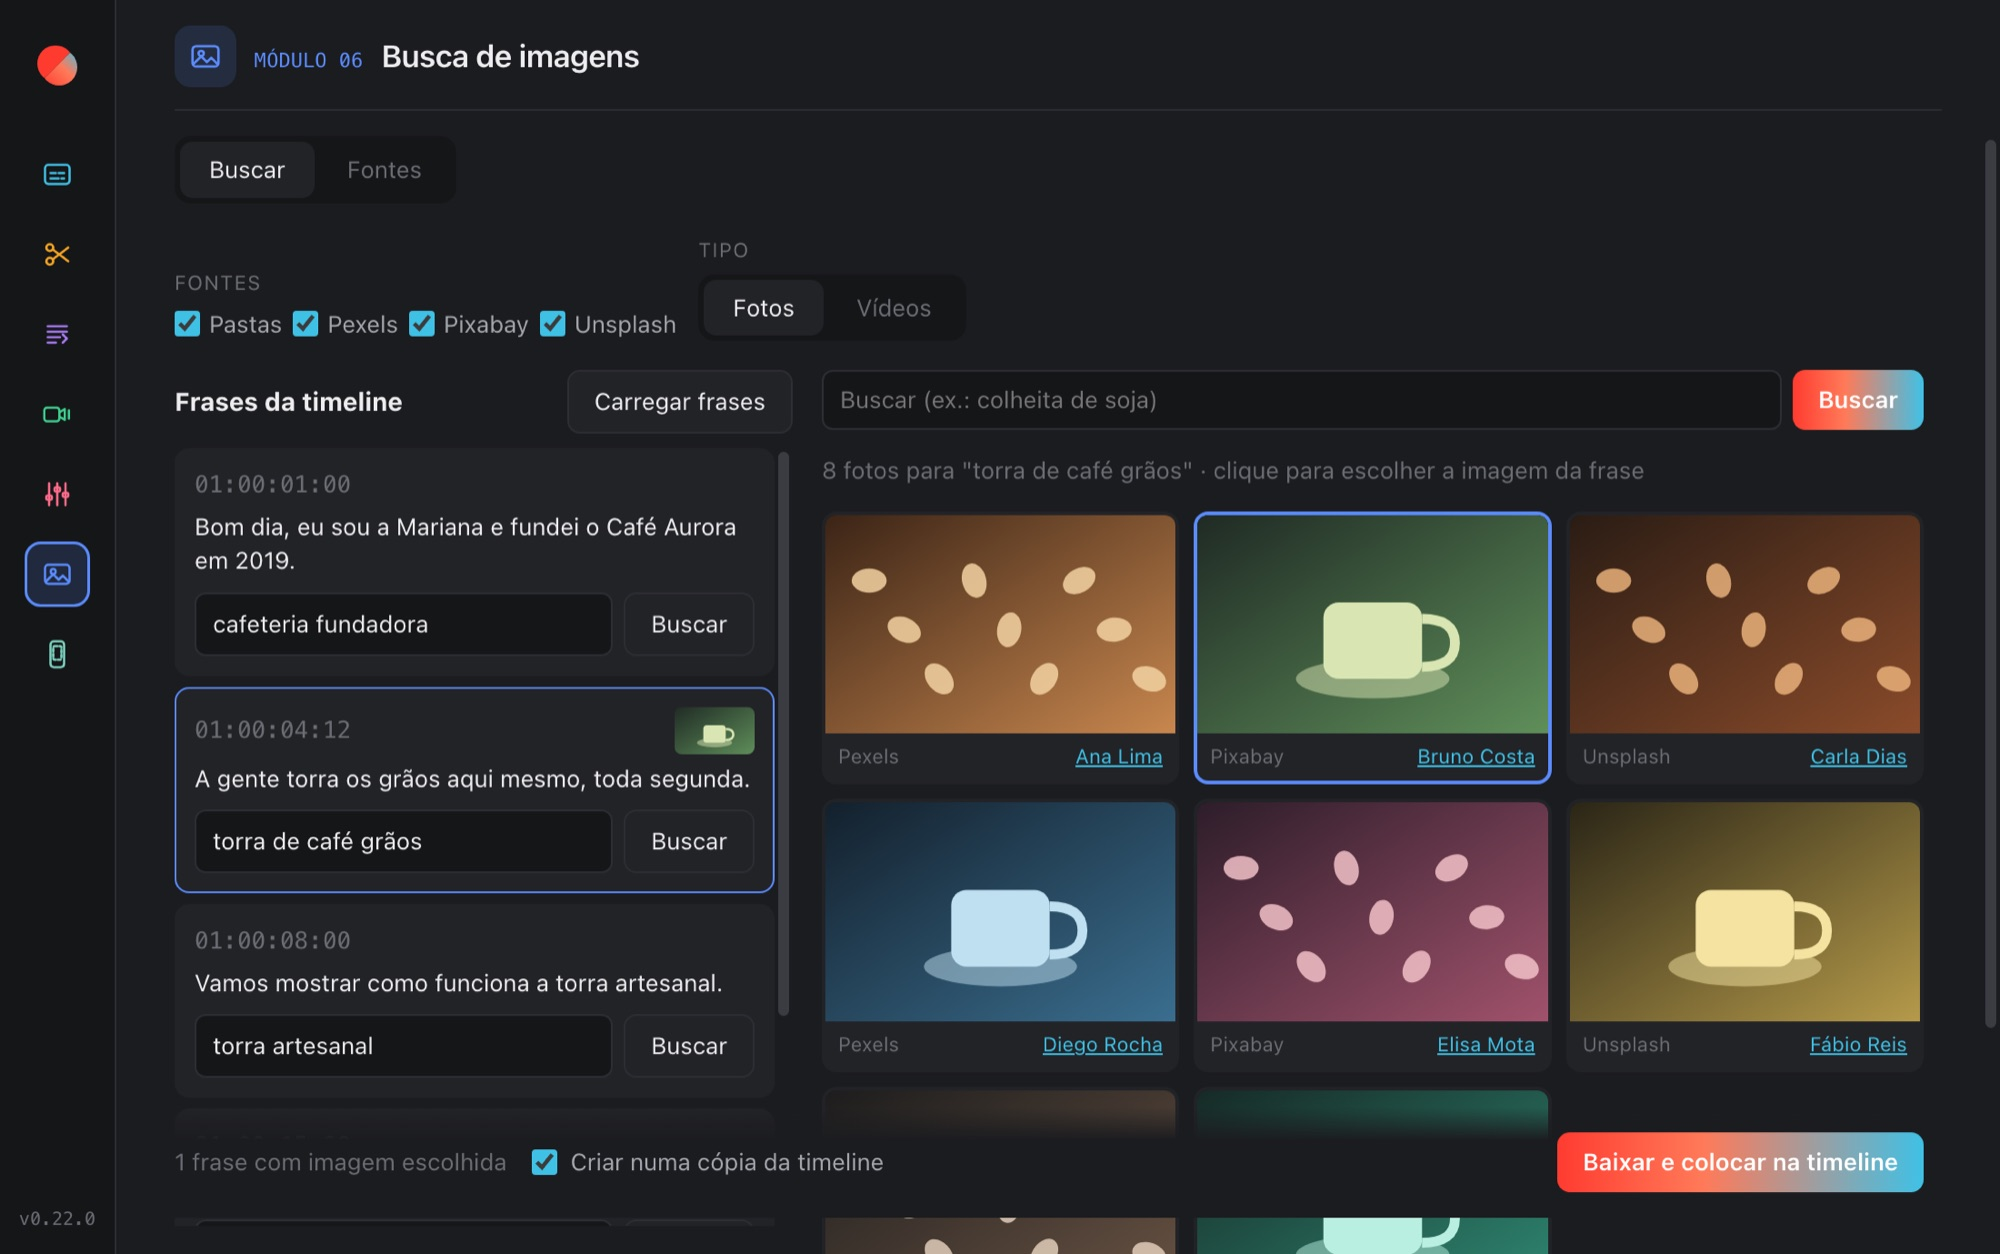
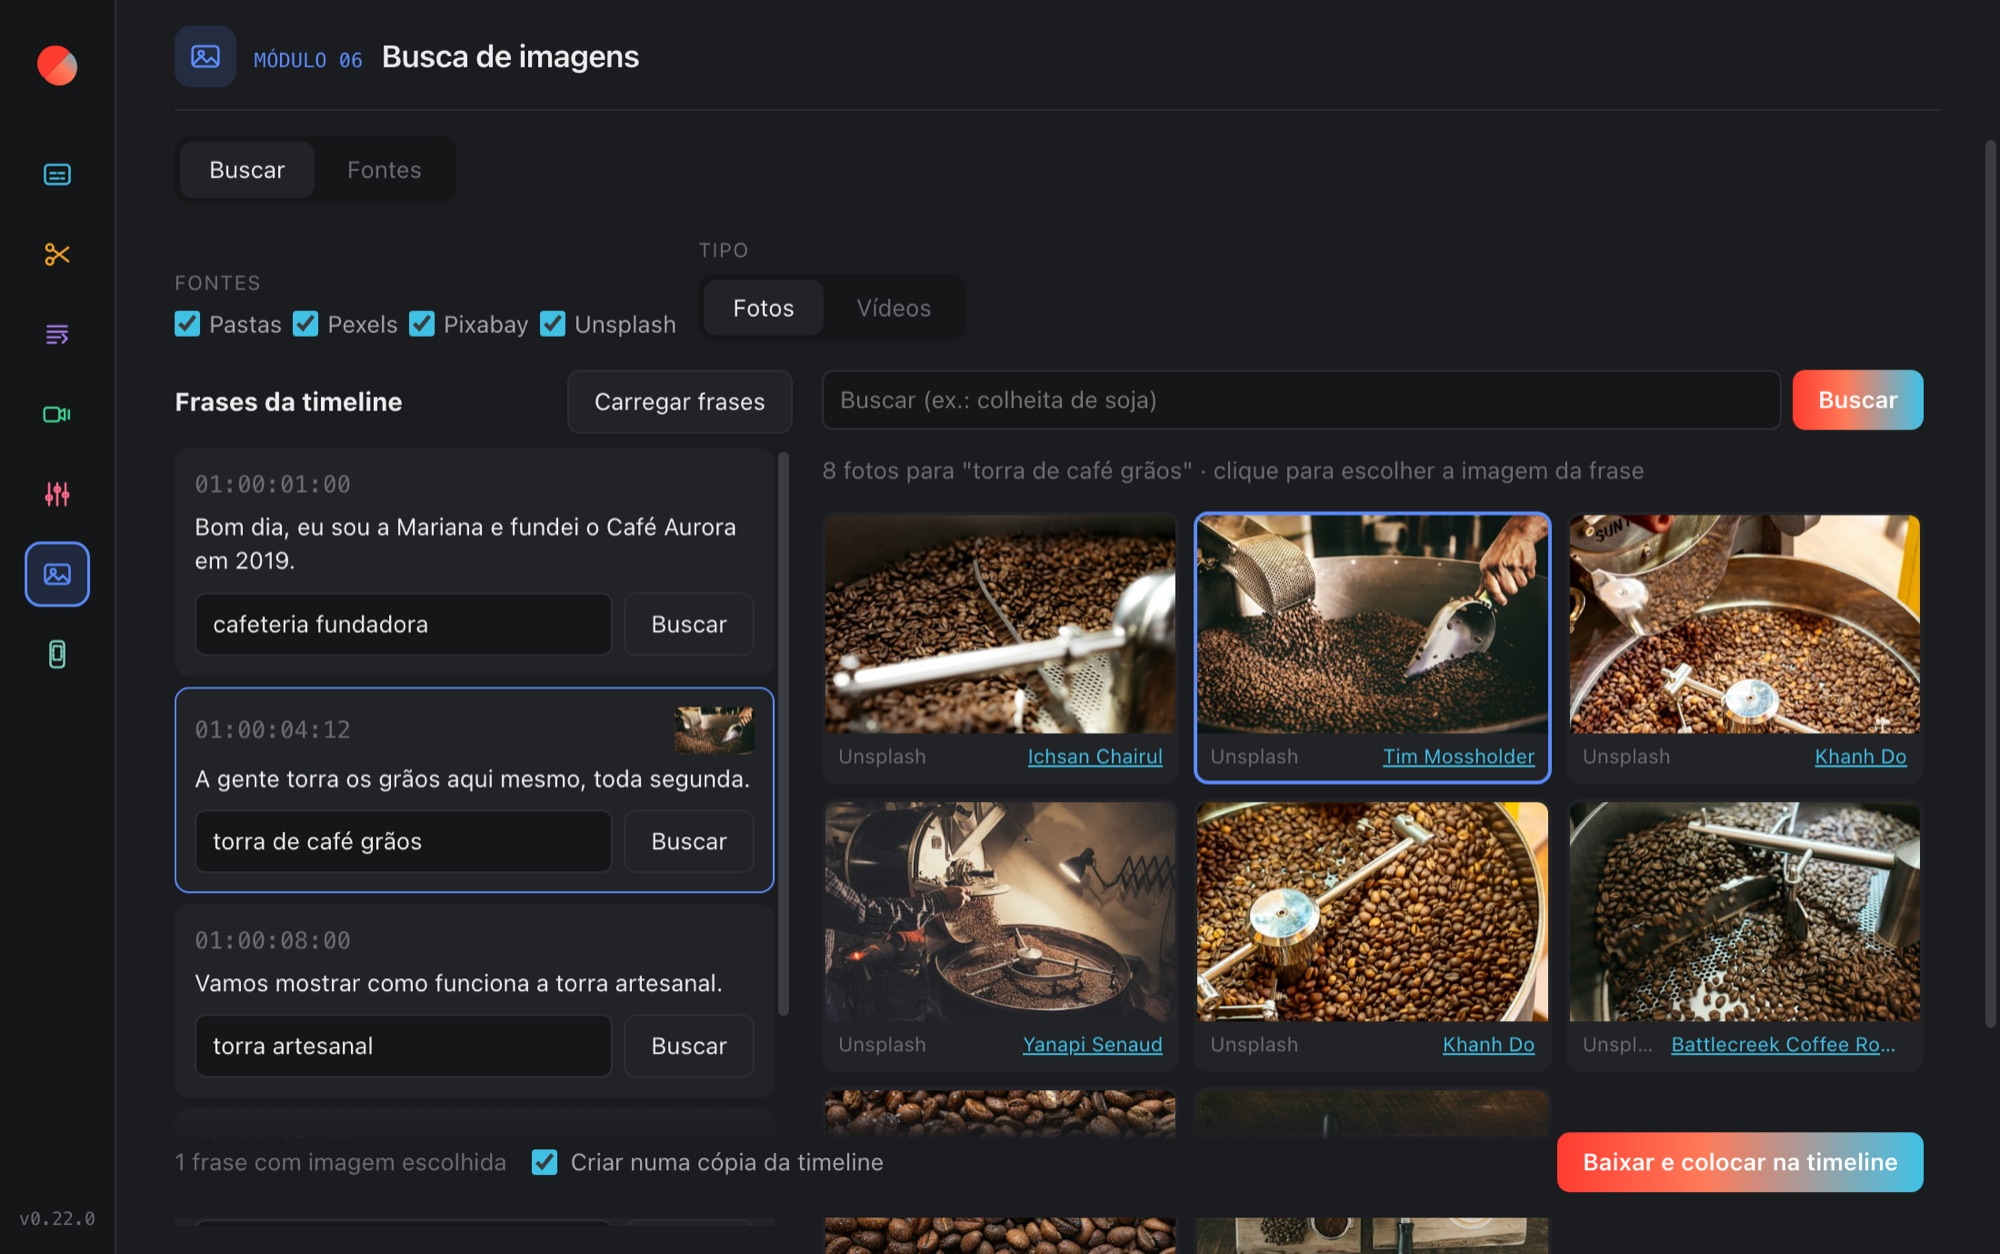
Site: fotos reais (Unsplash) nas telas da Busca de imagens e da Prévia para redes

diff --git a/docs/index.html b/docs/index.html
@@ -118,7 +118,7 @@
         </div>
         <div class="galeria">
             <div class="galeria-abas" role="tablist" aria-label="Telas dos módulos"><button class="galeria-aba" role="tab" data-tela="legendas" aria-selected="true" style="--c:#3fc1e6"><span class="mono">01</span> Correção de legendas</button><button class="galeria-aba" role="tab" data-tela="silencio" aria-selected="false" style="--c:#f5a524"><span class="mono">02</span> Corte de silêncios</button><button class="galeria-aba" role="tab" data-tela="transcricao" aria-selected="false" style="--c:#a77bf3"><span class="mono">03</span> Transcrição</button><button class="galeria-aba" role="tab" data-tela="cameras" aria-selected="false" style="--c:#3ecf8e"><span class="mono">04</span> Sync e Multicâmeras</button><button class="galeria-aba" role="tab" data-tela="som" aria-selected="false" style="--c:#ff6b8a"><span class="mono">05</span> Sound design</button><button class="galeria-aba" role="tab" data-tela="imagens" aria-selected="false" style="--c:#5b8cff"><span class="mono">06</span> Busca de imagens</button><button class="galeria-aba" role="tab" data-tela="previa" aria-selected="false" style="--c:#7dd3c0"><span class="mono">07</span> Prévia para redes</button></div>
-            <figure class="print galeria-tela" data-tela="legendas"><img src="assets/app-legendas.jpg?v=0.22.1" alt="Revisão das legendas com as sugestões do cliente, do dicionário público e da ortografia" loading="eager" width="2000" height="1255"><figcaption>01 · Correção de legendas</figcaption></figure><figure class="print galeria-tela" data-tela="silencio" hidden><img src="assets/app-silencio.jpg?v=0.22.1" alt="Corte de silêncios com faixas protegidas e o tempo removido" loading="lazy" width="2000" height="1255"><figcaption>02 · Corte de silêncios</figcaption></figure><figure class="print galeria-tela" data-tela="transcricao" hidden><img src="assets/app-transcricao.jpg?v=0.22.1" alt="Transcrição navegável com palavras marcadas para tirar e o painel de ações" loading="lazy" width="2000" height="1255"><figcaption>03 · Transcrição</figcaption></figure><figure class="print galeria-tela" data-tela="cameras" hidden><img src="assets/app-cameras.jpg?v=0.22.1" alt="Clipes do Media Pool, sincronismo, multicâmera e troca automática de câmera" loading="lazy" width="2000" height="1255"><figcaption>04 · Sync e Multicâmeras</figcaption></figure><figure class="print galeria-tela" data-tela="som" hidden><img src="assets/app-som.jpg?v=0.22.1" alt="Mixagem por destino com o plano de loudness de cada faixa" loading="lazy" width="2000" height="1255"><figcaption>05 · Sound design</figcaption></figure><figure class="print galeria-tela" data-tela="imagens" hidden><img src="assets/app-imagens.jpg?v=0.22.1" alt="Frases da timeline e resultados de busca de imagens de apoio" loading="lazy" width="2000" height="1255"><figcaption>06 · Busca de imagens</figcaption></figure><figure class="print galeria-tela" data-tela="previa" hidden><img src="assets/app-previa.jpg?v=0.22.1" alt="TikTok, Reels, Stories e Shorts lado a lado com as safe zones" loading="lazy" width="2000" height="1255"><figcaption>07 · Prévia para redes</figcaption></figure>
+            <figure class="print galeria-tela" data-tela="legendas"><img src="assets/app-legendas.jpg?v=0.22.1" alt="Revisão das legendas com as sugestões do cliente, do dicionário público e da ortografia" loading="eager" width="2000" height="1255"><figcaption>01 · Correção de legendas</figcaption></figure><figure class="print galeria-tela" data-tela="silencio" hidden><img src="assets/app-silencio.jpg?v=0.22.1" alt="Corte de silêncios com faixas protegidas e o tempo removido" loading="lazy" width="2000" height="1255"><figcaption>02 · Corte de silêncios</figcaption></figure><figure class="print galeria-tela" data-tela="transcricao" hidden><img src="assets/app-transcricao.jpg?v=0.22.1" alt="Transcrição navegável com palavras marcadas para tirar e o painel de ações" loading="lazy" width="2000" height="1255"><figcaption>03 · Transcrição</figcaption></figure><figure class="print galeria-tela" data-tela="cameras" hidden><img src="assets/app-cameras.jpg?v=0.22.1" alt="Clipes do Media Pool, sincronismo, multicâmera e troca automática de câmera" loading="lazy" width="2000" height="1255"><figcaption>04 · Sync e Multicâmeras</figcaption></figure><figure class="print galeria-tela" data-tela="som" hidden><img src="assets/app-som.jpg?v=0.22.1" alt="Mixagem por destino com o plano de loudness de cada faixa" loading="lazy" width="2000" height="1255"><figcaption>05 · Sound design</figcaption></figure><figure class="print galeria-tela" data-tela="imagens" hidden><img src="assets/app-imagens.jpg?v=0.22.1c" alt="Frases da timeline e resultados de busca de imagens de apoio" loading="lazy" width="2000" height="1255"><figcaption>06 · Busca de imagens</figcaption></figure><figure class="print galeria-tela" data-tela="previa" hidden><img src="assets/app-previa.jpg?v=0.22.1c" alt="TikTok, Reels, Stories e Shorts lado a lado com as safe zones" loading="lazy" width="2000" height="1255"><figcaption>07 · Prévia para redes</figcaption></figure>
         </div>
     </section>
 
